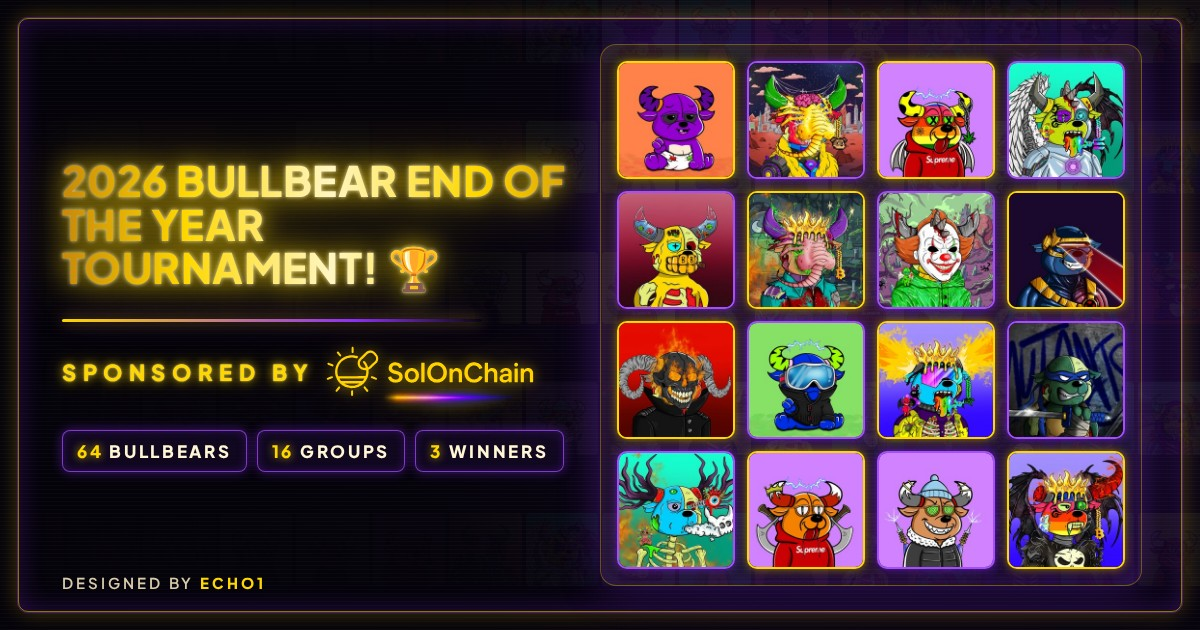
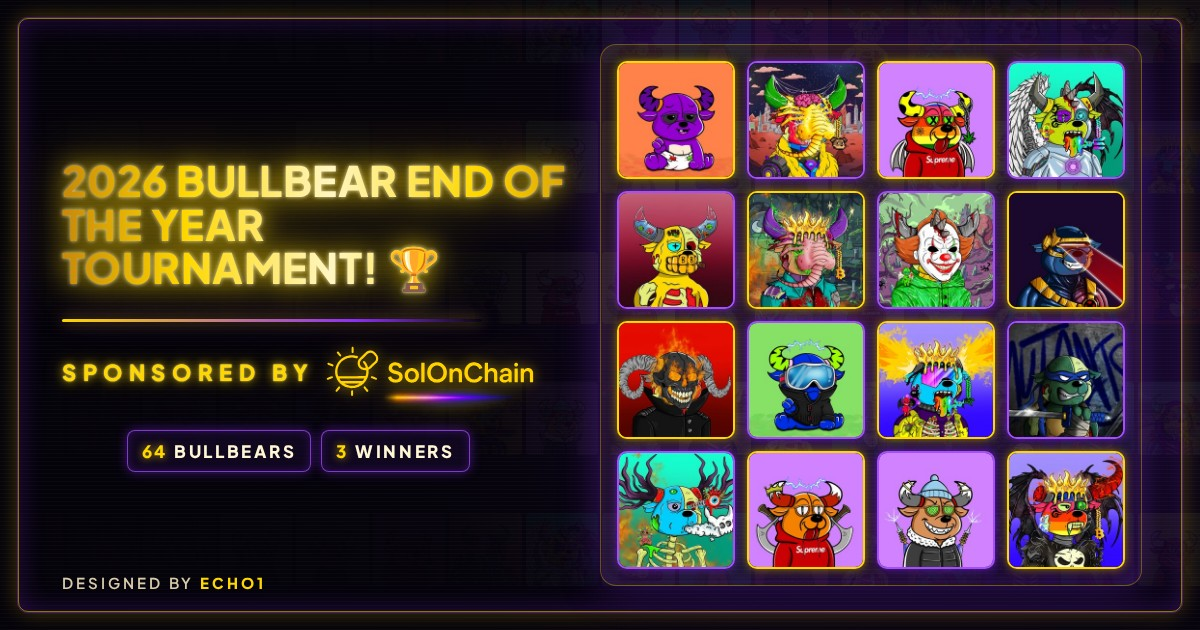
Update preview card

Changed region(s): [[0.0308, 0.6635, 0.4933, 0.754]]

diff --git a/soc_bracket/index.html b/soc_bracket/index.html
@@ -8,12 +8,12 @@
 <meta property="og:type" content="website">
 <meta property="og:title" content="2026 BullBear End of the Year TOURNAMENT! 🏆">
 <meta property="og:url" content="https://echo1onchain.xyz/soc_bracket/">
-<meta property="og:image" content="https://echo1onchain.xyz/soc_bracket/og.jpg?v=cb98d12c30">
+<meta property="og:image" content="https://echo1onchain.xyz/soc_bracket/og.jpg?v=52b712dd71">
 <meta property="og:image:width" content="1200">
 <meta property="og:image:height" content="630">
 <meta name="twitter:card" content="summary_large_image">
 <meta name="twitter:title" content="2026 BullBear End of the Year TOURNAMENT! 🏆">
-<meta name="twitter:image" content="https://echo1onchain.xyz/soc_bracket/og.jpg?v=cb98d12c30">
+<meta name="twitter:image" content="https://echo1onchain.xyz/soc_bracket/og.jpg?v=52b712dd71">
 <meta name="description" content="View the live bracket · Sponsored by SolOnChain">
 <meta property="og:description" content="View the live bracket · Sponsored by SolOnChain">
 <meta property="og:image:alt" content="2026 BullBear End of the Year TOURNAMENT! 🏆 · Sponsored by SolOnChain">
